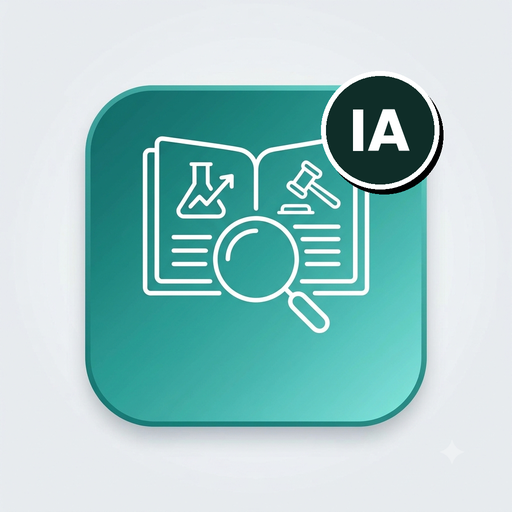
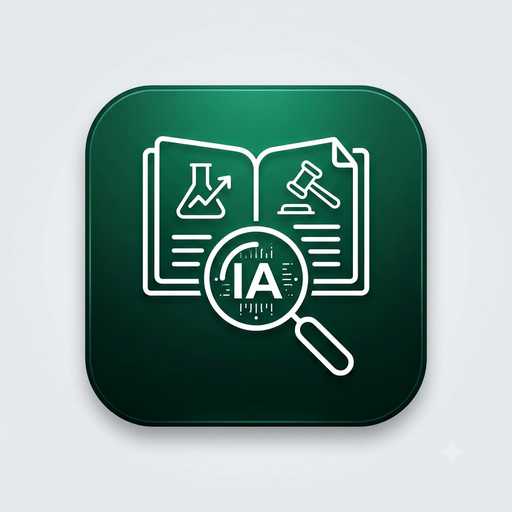
Add files via upload

diff --git a/service-worker.js b/service-worker.js
@@ -1,4 +1,4 @@
-const CACHE_NAME = 'lector-resultados-v48';
+const CACHE_NAME = 'lector-resultados-v49';
 const APP_SHELL = [
   './index.html',
   './manifest.json',